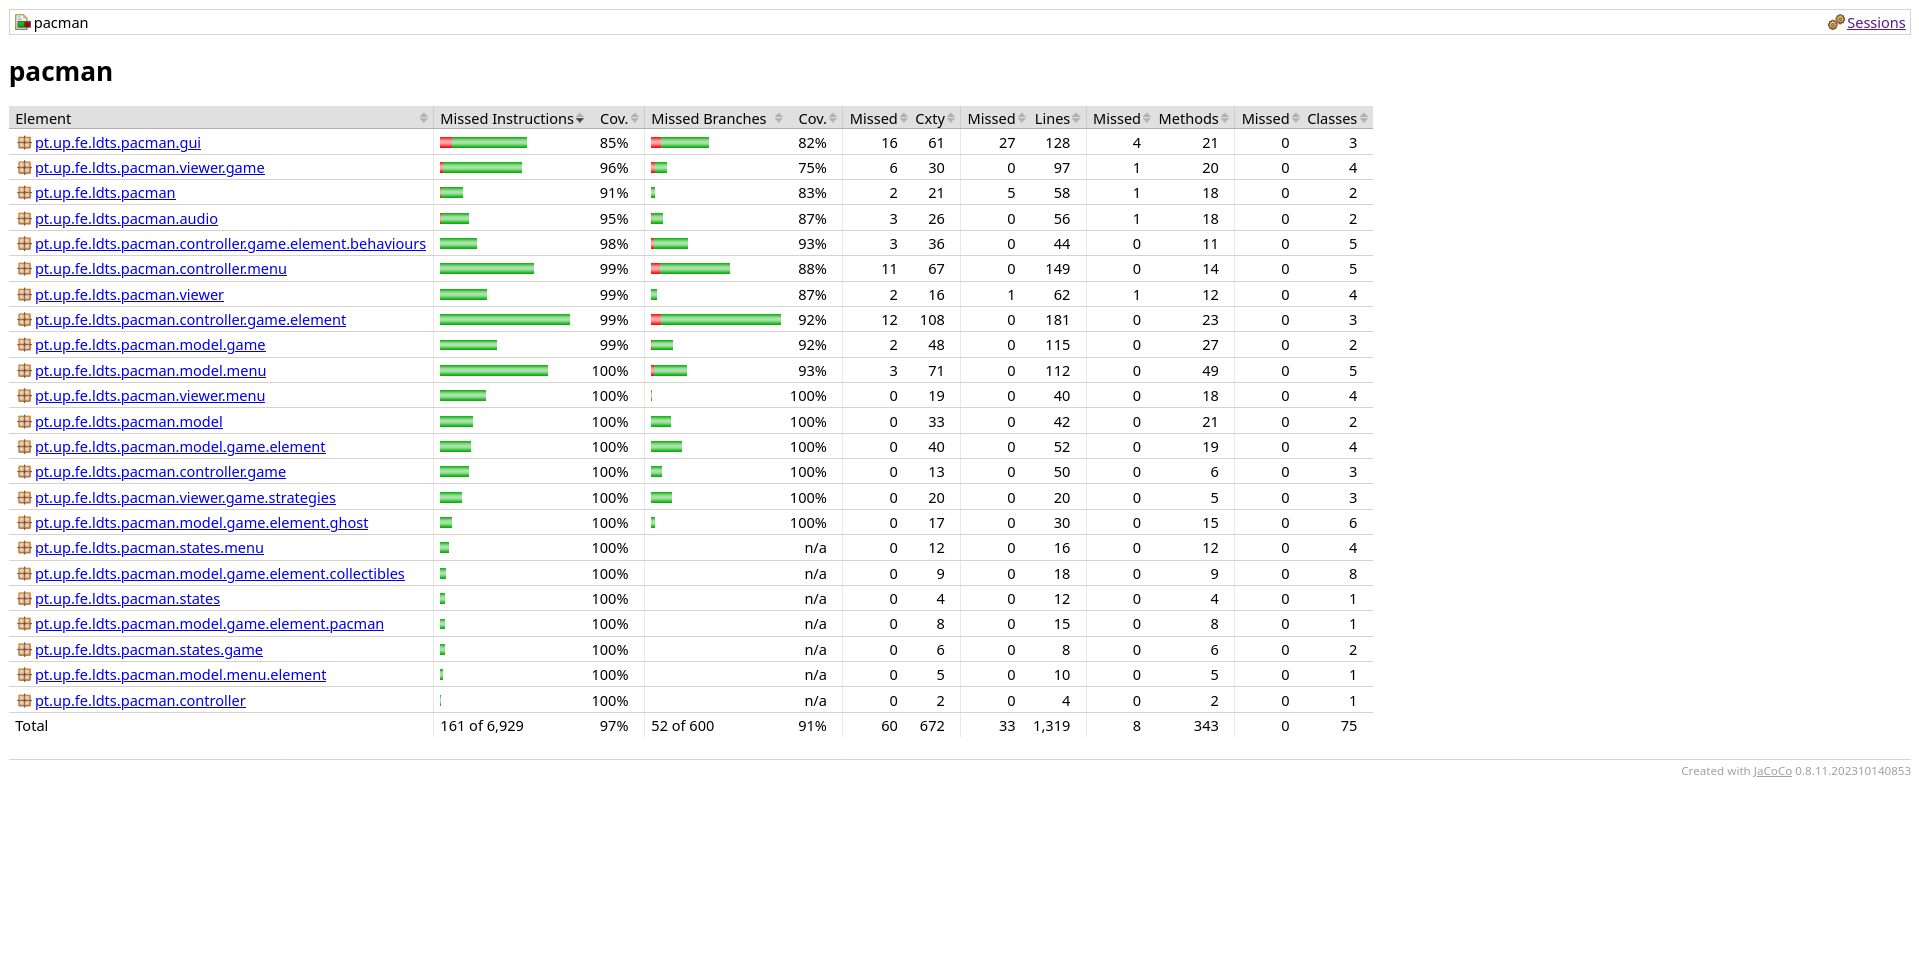
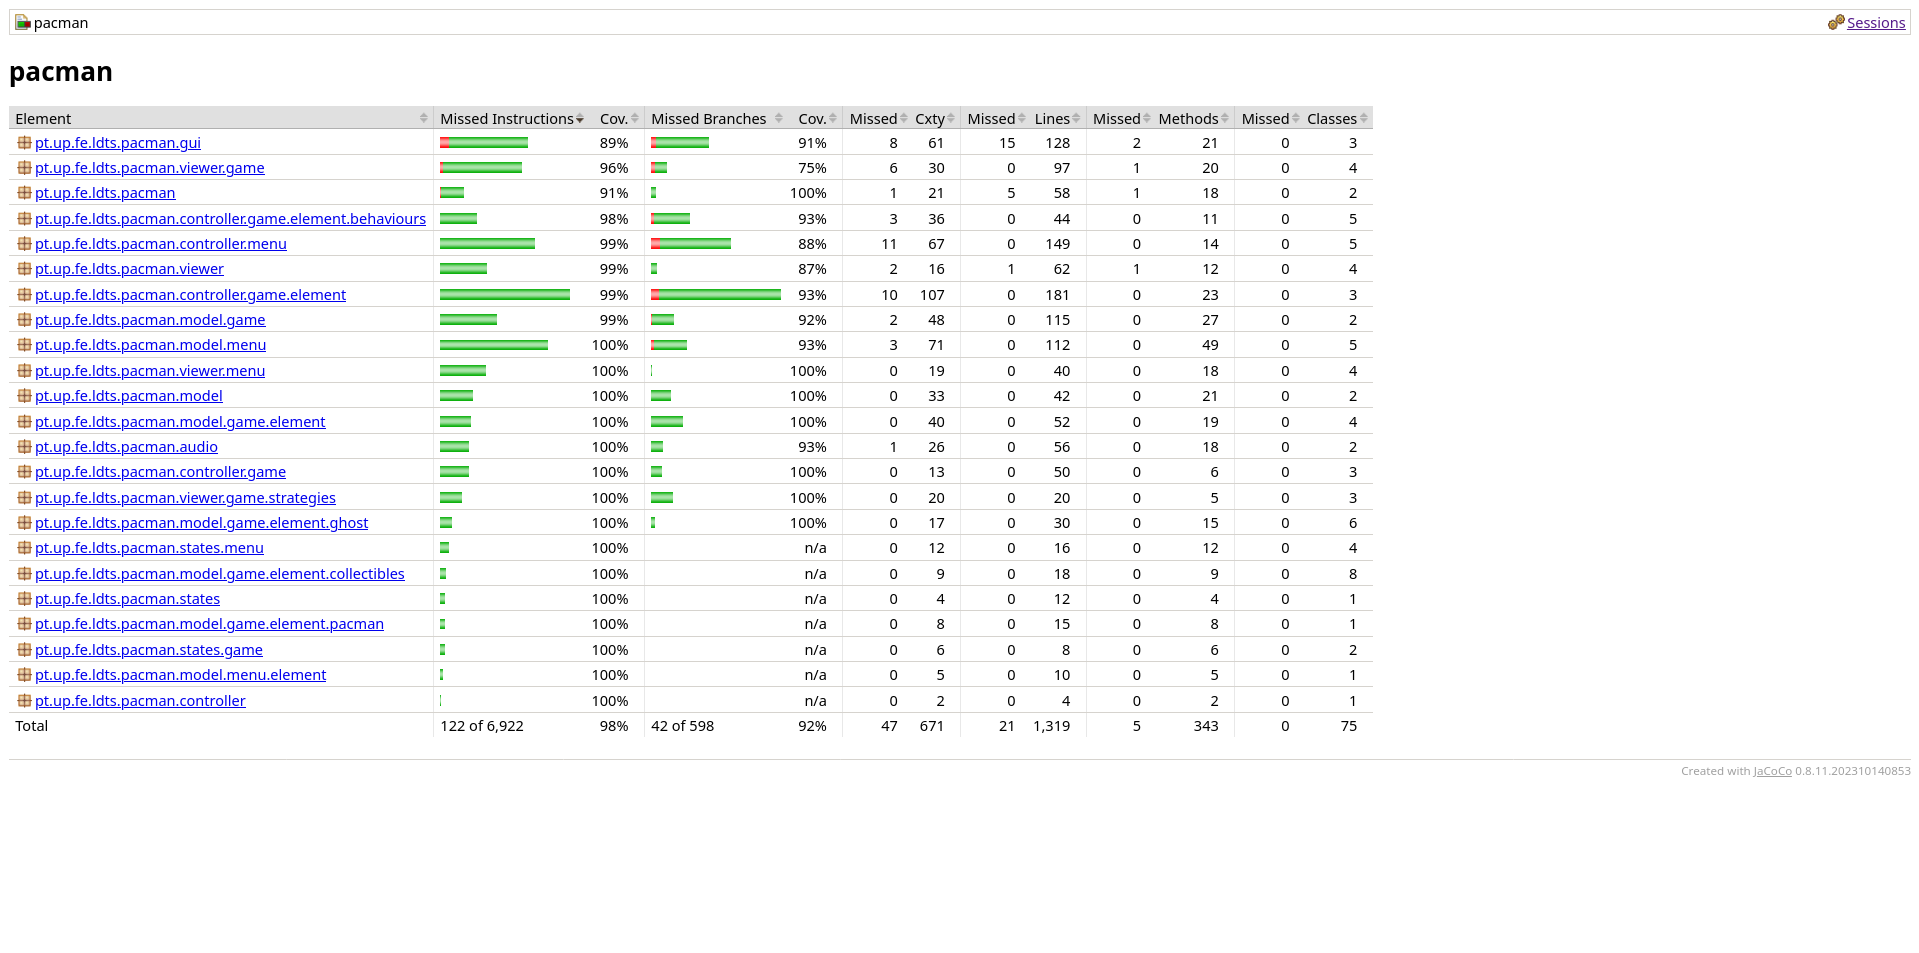
Added more pattern UML diagrams; updated the coverage and pitest screenshots

diff --git a/docs/README.md b/docs/README.md
@@ -64,7 +64,7 @@ The system is composed of the following key components:
 
 - **Implementation:**  
   The **Model** encapsulates the game's data and logic. (e.g., `Pacman`, `Ghost`, `Coins`). The **View** is responsible
-  for rendering these elements on the screen using classes like `PacmanViewer` and `GhostViewer`. The **Controller**
+  for rendering these elements on the screen using classes like `ElementViewer` and `MovableElementViewer`. The **Controller**
   manages user input and updates the game state accordingly, e.g., `GameController` handles key presses and game loop
   logic.
 
@@ -108,7 +108,12 @@ The system is composed of the following key components:
     - [Game Loop Implementation](/src/main/java/pt/up/fe/ldts/pacman/Game.java)
 
 - **UML diagram:**
-  // TODO
+<p align="center" justify="center">
+  <img src="resources/uml/patterns/gameloop.png"/>
+</p>
+<p align="center">
+  <b><i>Fig 6. Game Loop UML</i></b>
+</p>
 
 #### **Singleton**
 
@@ -137,7 +142,7 @@ The system is composed of the following key components:
   <img src="resources/uml/patterns/singleton.png"/>
 </p>
 <p align="center">
-  <b><i>Fig 6. Singleton UML</i></b>
+  <b><i>Fig 7. Singleton UML</i></b>
 </p>
 
 #### **State**
@@ -162,7 +167,12 @@ The system is composed of the following key components:
     - [MainMenuState](/src/main/java/pt/up/fe/ldts/pacman/states/menu/MainMenuState.java)
 
 - **UML diagram:**  
-  // TODO
+<p align="center" justify="center">
+  <img src="resources/uml/patterns/state.png"/>
+</p>
+<p align="center">
+  <b><i>Fig 8. State UML</i></b>
+</p>
 
 #### **Strategy**
 
@@ -184,7 +194,7 @@ The system is composed of the following key components:
     - **Liabilities:** Slightly increased complexity due to additional interfaces/classes.
 
 - **Code References:**
-    - [Bliky movement Strategy](/src/main/java/pt/up/fe/ldts/pacman/controller/game/element/behaviours/BlinkyMovementBehaviour.java)
+    - [Blinky movement Strategy](/src/main/java/pt/up/fe/ldts/pacman/controller/game/element/behaviours/BlinkyMovementBehaviour.java)
     - [Pacman viewer Strategy](/src/main/java/pt/up/fe/ldts/pacman/viewer/game/strategies/PacmanStrategy.java)
 
 - **UML diagram:**  
@@ -192,7 +202,7 @@ The system is composed of the following key components:
   <img src="resources/uml/patterns/strategy.png"/>
 </p>
 <p align="center">
-  <b><i>Fig 7. Strategy UML</i></b>
+  <b><i>Fig 9. Strategy UML</i></b>
 </p>
 
 #### **Facade**
@@ -217,7 +227,12 @@ The system is composed of the following key components:
     - [LanternaGUI Facade](/src/main/java/pt/up/fe/ldts/pacman/gui/LanternaGUI.java)
 
 - **UML diagram:**  
-  // TODO
+<p align="center" justify="center">
+  <img src="resources/uml/patterns/facade.png"/>
+</p>
+<p align="center">
+  <b><i>Fig 10. Facade UML</i></b>
+</p>
 
 #### **Factory**
 
@@ -239,7 +254,12 @@ The system is composed of the following key components:
     - [Viewer Factory](/src/main/java/pt/up/fe/ldts/pacman/viewer/ViewerFactory.java)
 
 - **UML diagram:**  
-  // TODO
+<p align="center" justify="center">
+  <img src="resources/uml/patterns/factory.png"/>
+</p>
+<p align="center">
+  <b><i>Fig 11. Factory UML</i></b>
+</p>
 
 ---
 
@@ -249,7 +269,7 @@ The system is composed of the following key components:
   <img src="resources/uml/structure.png"/>
 </p>
 <p align="center">
-  <b><i>Fig 8. UML classes diagram</i></b>
+  <b><i>Fig 12. UML classes diagram</i></b>
 </p>
 
 ## Known-code smells
@@ -267,12 +287,12 @@ jacoco and property based testing with jqwik.
   <img src="resources/testing/coverage.png"/>
 </p>
 <p align="center">
-  <b><i>Fig 9. Code coverage screenshot</i></b>
+  <b><i>Fig 13. Code coverage screenshot</i></b>
 </p>
 
 <p align="center" justify="center">
   <img src="resources/testing/pitest.png"/>
 </p>
 <p align="center">
-  <b><i>Fig 10. Mutation coverage screenshot</i></b>
+  <b><i>Fig 14. Mutation coverage screenshot</i></b>
 </p>
